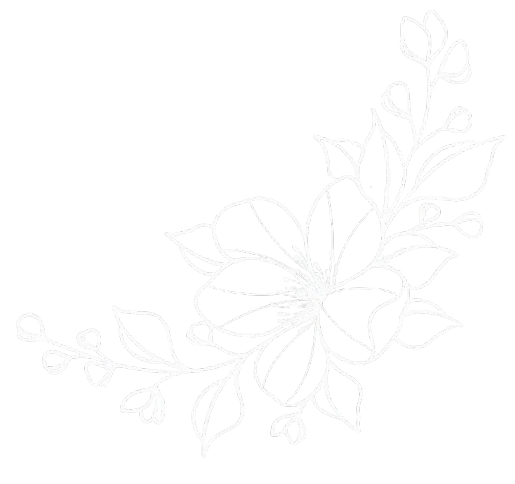
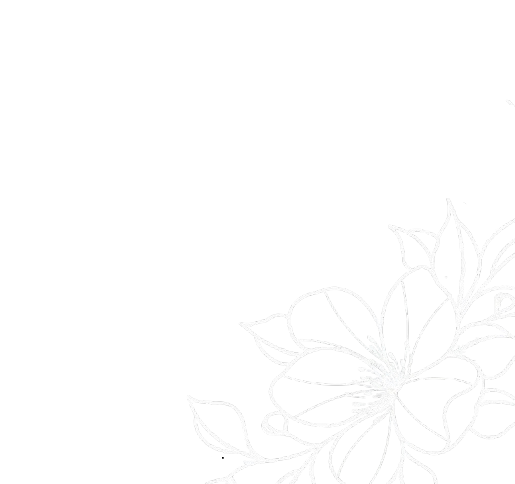
Cambiando foto principal

diff --git a/MIS_ 15_BARBARA_C.htm b/MIS_ 15_BARBARA_C.htm
@@ -218,7 +218,7 @@
         "
       >
     <img
-  src="BARBARA/floresCuadro.png"
+  src="BARBARA/floresAI.png"
   style="
     position: absolute;
     left:0px;
@@ -228,6 +228,21 @@
     z-index: 2;
   "
   alt="Flores izquierda"
+/>
+
+<img
+  src="BARBARA/floresAD.png"
+  style="
+    position: absolute;
+    bottom: 0;
+    right: 0;
+    width: 450px;
+    
+    opacity: 0;
+    animation: aparecer 1.8s ease-in-out forwards;
+    z-index: 2;
+  "
+  alt="Flores inferior derecha"
 />
     
     </div>
